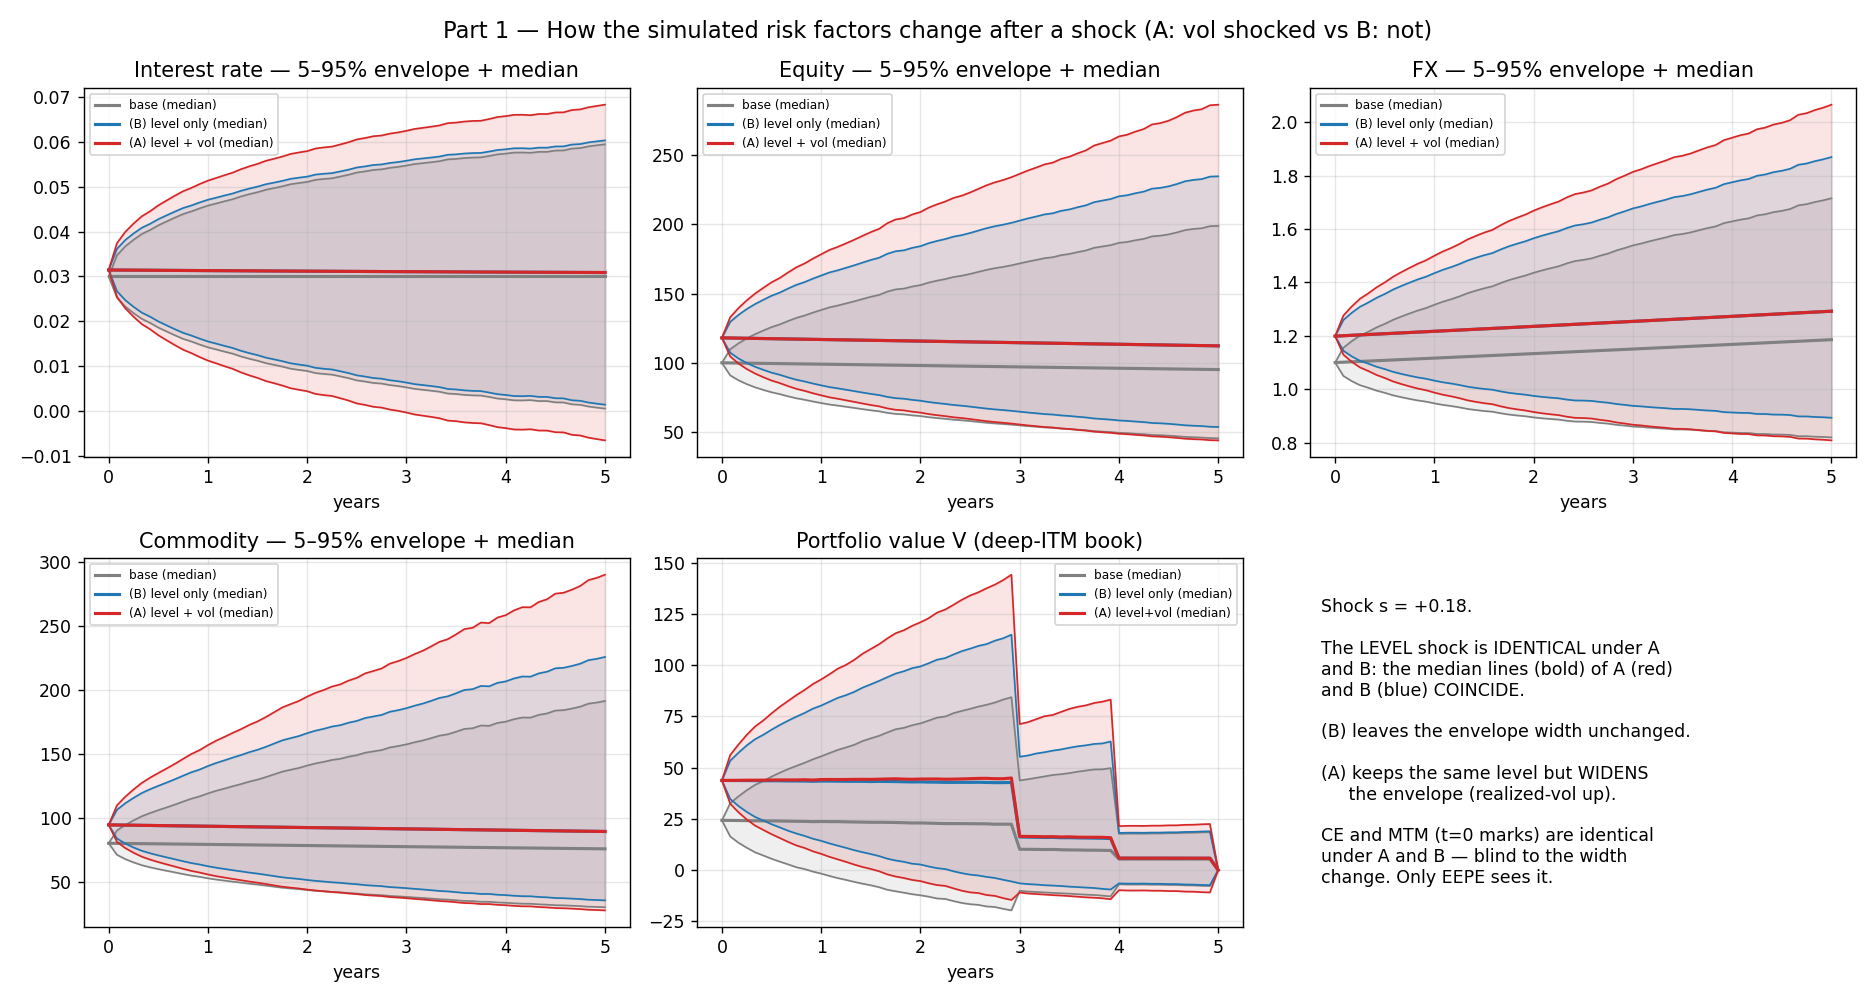
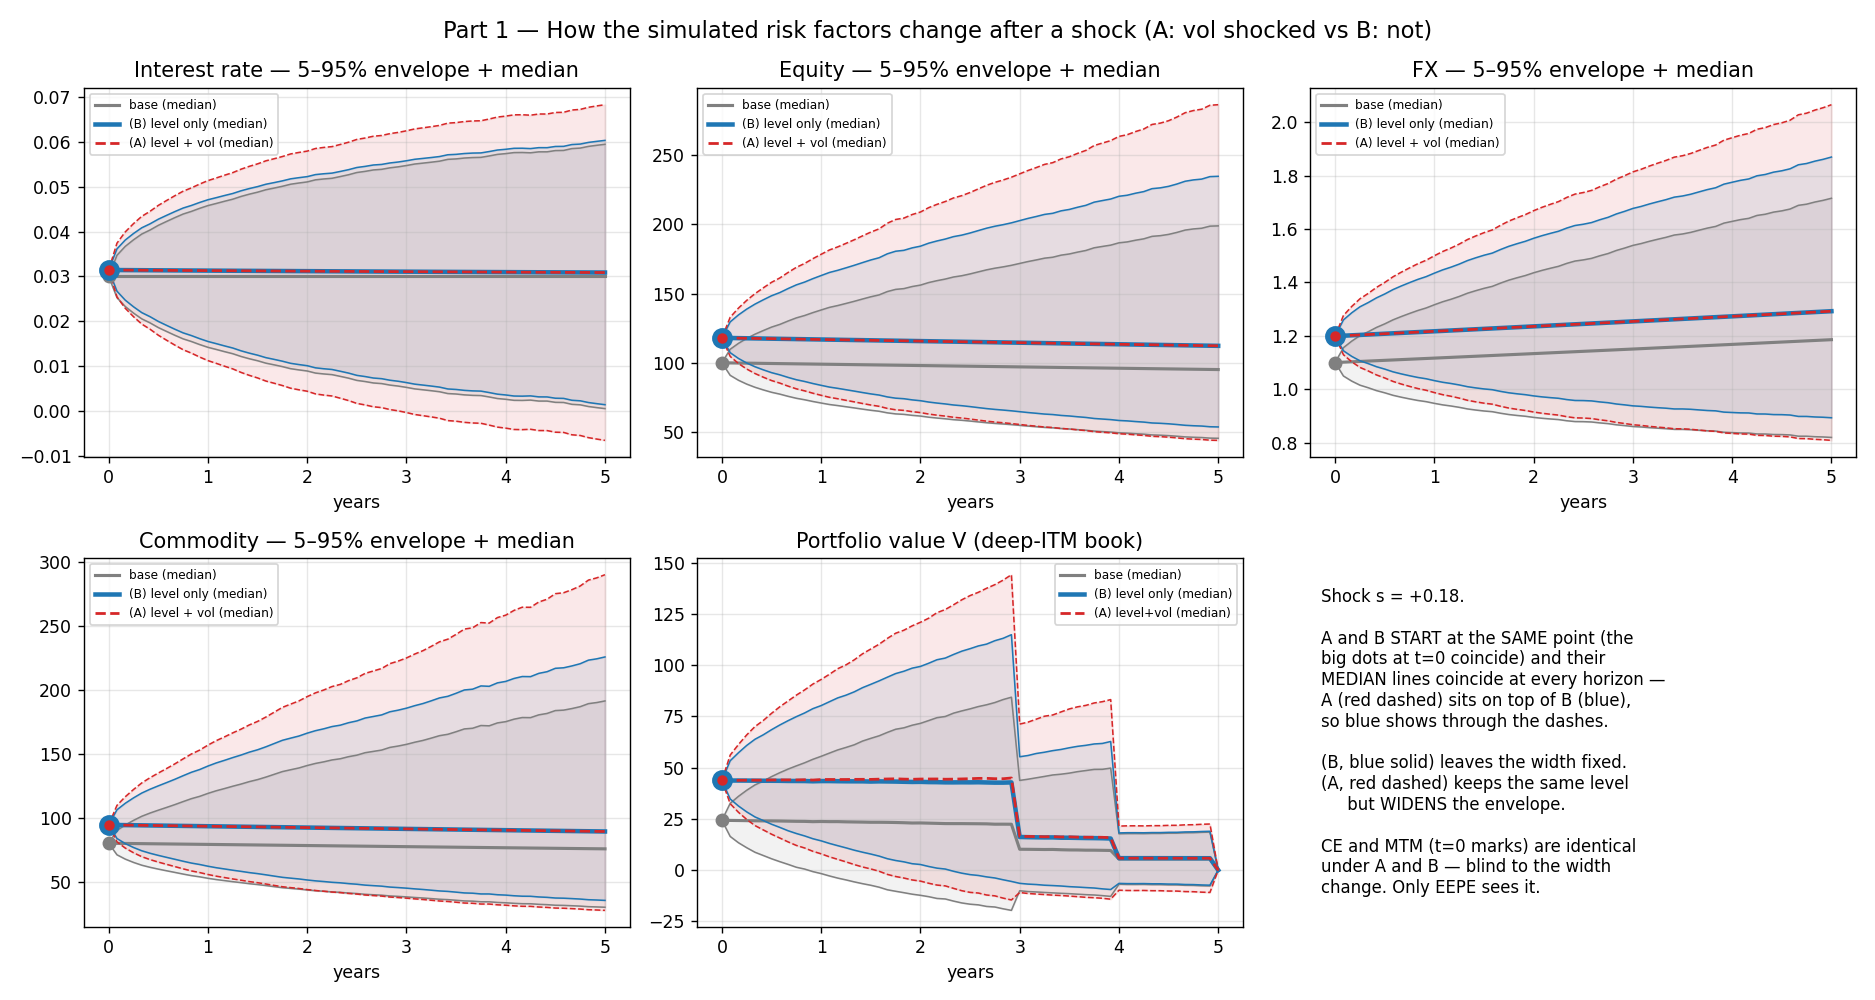
Envelope figure: make the shared A/B start point and median obvious
Add t=0 start markers and distinct line styles (B blue solid, A red dashed on
top) so the coinciding start/median of the two methodologies is visible rather
than hidden by overplotting.

diff --git a/experiments/part1_linear.py b/experiments/part1_linear.py
@@ -75,32 +75,37 @@ def fig_envelopes():
     def env(P):  # 5/50/95 percentile bands
         return np.percentile(P, 5, 1), np.percentile(P, 50, 1), np.percentile(P, 95, 1)
 
+    # (color, linestyle, linewidth, markersize) — A dashed & thinner so B shows THROUGH where they coincide;
+    # start markers: base small, B large, A small-on-top -> A & B markers sit on the SAME point.
+    STY = {'base': ('grey', '-', 1.8, 7), 'B': ('C0', '-', 2.6, 11), 'A': ('C3', '--', 1.6, 5)}
+
+    def draw(ax, series):
+        for P, key, lab in series:
+            c, ls, lw, ms = STY[key]
+            lo, md, hi = env(P)
+            ax.fill_between(TIMES, lo, hi, color=c, alpha=0.10)
+            ax.plot(TIMES, hi, color=c, lw=0.9, ls=ls); ax.plot(TIMES, lo, color=c, lw=0.9, ls=ls)
+            ax.plot(TIMES, md, color=c, lw=lw, ls=ls, label=f'{lab} (median)')
+            ax.plot(0, md[0], 'o', color=c, ms=ms, zorder=5)     # explicit t=0 start marker
+        ax.grid(alpha=.3); ax.legend(fontsize=7)
+
     fig, axs = plt.subplots(2, 3, figsize=(15, 8))
     panels = [('rate', 'Interest rate'), ('eq', 'Equity'), ('fx', 'FX'), ('cm', 'Commodity')]
     for ax, (nm, title) in zip(axs.ravel(), panels):
-        for P, c, lab in [(base_p[nm], 'grey', 'base'), (B_p[nm], 'C0', '(B) level only'),
-                          (A_p[nm], 'C3', '(A) level + vol')]:
-            lo, md, hi = env(P)
-            ax.fill_between(TIMES, lo, hi, color=c, alpha=0.12)
-            ax.plot(TIMES, hi, color=c, lw=1.0); ax.plot(TIMES, lo, color=c, lw=1.0)
-            ax.plot(TIMES, md, color=c, lw=1.8, label=f'{lab} (median)')   # median = the LEVEL
-        ax.set(title=f'{title} — 5–95% envelope + median', xlabel='years'); ax.grid(alpha=.3)
-        ax.legend(fontsize=7)
-    # portfolio value envelope
+        draw(ax, [(base_p[nm], 'base', 'base'), (B_p[nm], 'B', '(B) level only'), (A_p[nm], 'A', '(A) level + vol')])
+        ax.set(title=f'{title} — 5–95% envelope + median', xlabel='years')
     ax = axs.ravel()[4]
-    for V, c, lab in [(base_V, 'grey', 'base'), (B_V, 'C0', '(B) level only'), (A_V, 'C3', '(A) level+vol')]:
-        lo, md, hi = env(V)
-        ax.fill_between(TIMES, lo, hi, color=c, alpha=0.12)
-        ax.plot(TIMES, hi, color=c, lw=1.0); ax.plot(TIMES, lo, color=c, lw=1.0)
-        ax.plot(TIMES, md, color=c, lw=1.8, label=f'{lab} (median)')
-    ax.set(title='Portfolio value V (deep-ITM book)', xlabel='years'); ax.grid(alpha=.3); ax.legend(fontsize=7)
+    draw(ax, [(base_V, 'base', 'base'), (B_V, 'B', '(B) level only'), (A_V, 'A', '(A) level+vol')])
+    ax.set(title='Portfolio value V (deep-ITM book)', xlabel='years')
     axs.ravel()[5].axis('off')
     axs.ravel()[5].text(0.02, 0.5,
-        "Shock s = +0.18.\n\nThe LEVEL shock is IDENTICAL under A\nand B: the median lines (bold) of A (red)\n"
-        "and B (blue) COINCIDE.\n\n(B) leaves the envelope width unchanged.\n\n"
-        "(A) keeps the same level but WIDENS\n     the envelope (realized-vol up).\n\n"
+        "Shock s = +0.18.\n\nA and B START at the SAME point (the\n"
+        "big dots at t=0 coincide) and their\nMEDIAN lines coincide at every horizon —\n"
+        "A (red dashed) sits on top of B (blue),\nso blue shows through the dashes.\n\n"
+        "(B, blue solid) leaves the width fixed.\n(A, red dashed) keeps the same level\n"
+        "     but WIDENS the envelope.\n\n"
         "CE and MTM (t=0 marks) are identical\nunder A and B — blind to the width\n"
-        "change. Only EEPE sees it.", fontsize=10, va='center')
+        "change. Only EEPE sees it.", fontsize=9.5, va='center')
     fig.suptitle('Part 1 — How the simulated risk factors change after a shock (A: vol shocked vs B: not)',
                  fontsize=13)
     fig.tight_layout(); fig.savefig(os.path.join(FIG, "part1_sim_envelopes.png"), dpi=125)
